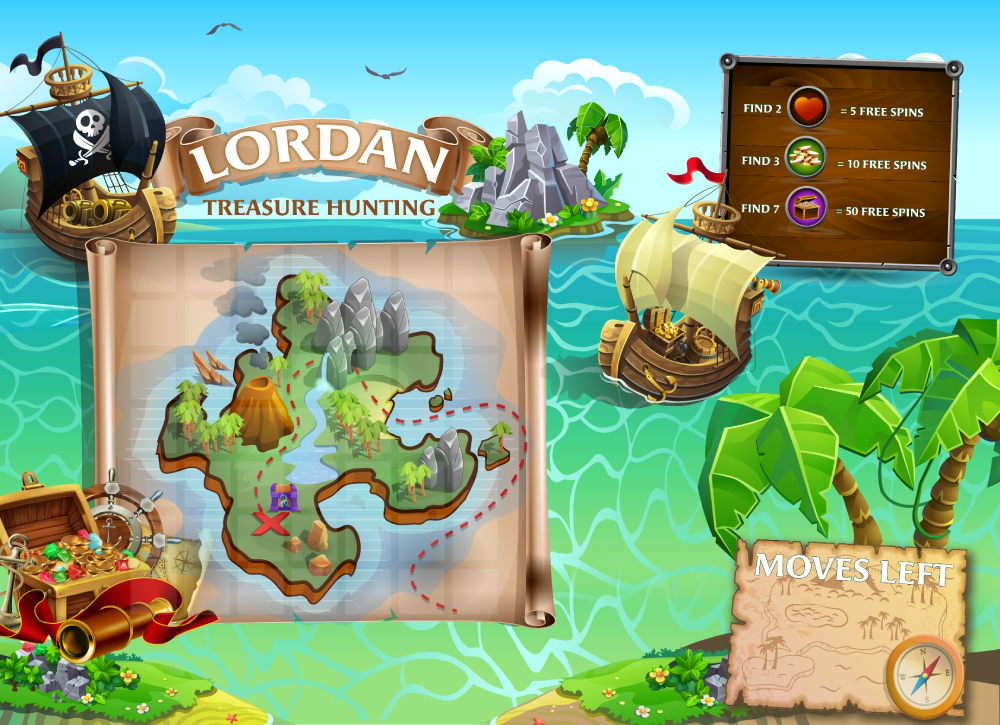
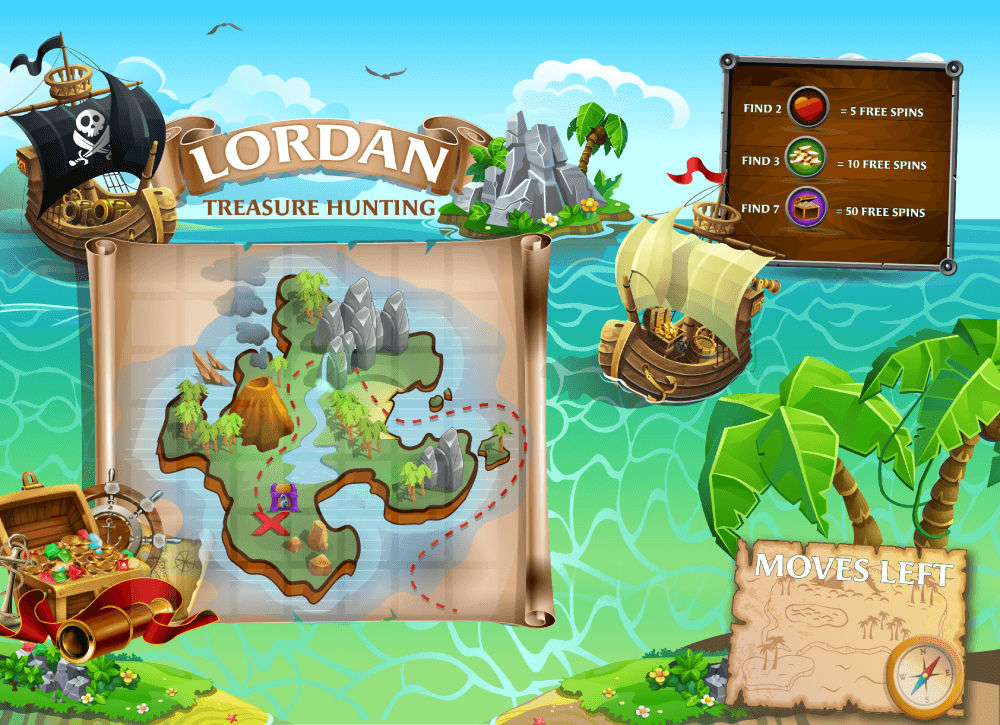
add messageSender module. Optimize images

diff --git a/src/scenes/PlayGameScene.js b/src/scenes/PlayGameScene.js
@@ -11,17 +11,17 @@ class PlayGameScene extends Scene {
   create() {
     this.createAnimations();
 
-    this.cameras.main.fadeIn(500);
     this.add.image(0, 0, 'gamescene_background').setOrigin(0);
     this.sound_take = this.sound.add('take');
     let container = this.add.container(154.5, 271.5);
 
     const RandomizedMatrix = new RetentionMatrix(RetentionMatrixConfig);
     this.ground = RandomizedMatrix.getResult();
+    console.log('ground', this.ground);
 
+    this.cameras.main.fadeIn(500);
     this.movesLeft = 7;
     this.results = [0, 0, 0];
-
     this.frames = ["0.png", "1.png", "2.png"];
 
     this.drawGameGrid(RetentionMatrixConfig, (x, y, row, col) => {
@@ -102,28 +102,28 @@ class PlayGameScene extends Scene {
       case 'treasure':
         result = {
           text: '50 FREESPINS',
-          type: 'treasure'
+          value: 'C'
         };
         break;
 
       case 'coin':
         result = {
           text: '10 FREESPINS',
-          type: 'coin'
+          value: 'B'
         };
         break;
 
       case 'heart':
         result = {
           text: '5 FREESPINS',
-          type: 'heart'
+          value: 'A'
         };
         break;
 
       default:
         result = {
           text: 'something went wrong',
-          type: 'error'
+          value: 'error'
         };
     }
     //this.cameras.main.fadeOut(300);

diff --git a/src/scenes/ResultScene.js b/src/scenes/ResultScene.js
@@ -1,4 +1,5 @@
 import { Scene } from 'phaser';
+import {MessageSender} from '../modules/MessageSender';
 
 class ResultScene extends Scene {
 
@@ -7,18 +8,21 @@ class ResultScene extends Scene {
   }
 
   init(data) {
-    this.resultText = data.text;
+    this.result = data;
   }
 
   create() {
     this.cameras.main.fadeIn(800);
+
+    const messenger = new MessageSender();
+    messenger.send({type: 'Treasure', value: this.result.value});
 
     this.add.image(0, 0, 'result_screen').setOrigin(0);
     this.addResultMessage();
   }
 
   addResultMessage() {
-    this.add.text(this.game.renderer.width / 2, this.game.renderer.height / 2 + 20, this.resultText, {
+    this.add.text(this.game.renderer.width / 2 + 15, this.game.renderer.height / 2 + 20, this.result.text, {
       fontFamily: 'AngieBold',
       fontSize: 60,
       stroke: '#dfd597',

diff --git a/src/modules/MessageSender.js b/src/modules/MessageSender.js
@@ -1,0 +1,8 @@
+class MessageSender {
+
+    send(data){
+        window.parent.postMessage(data, "*")
+    }
+}
+
+export {MessageSender} 
